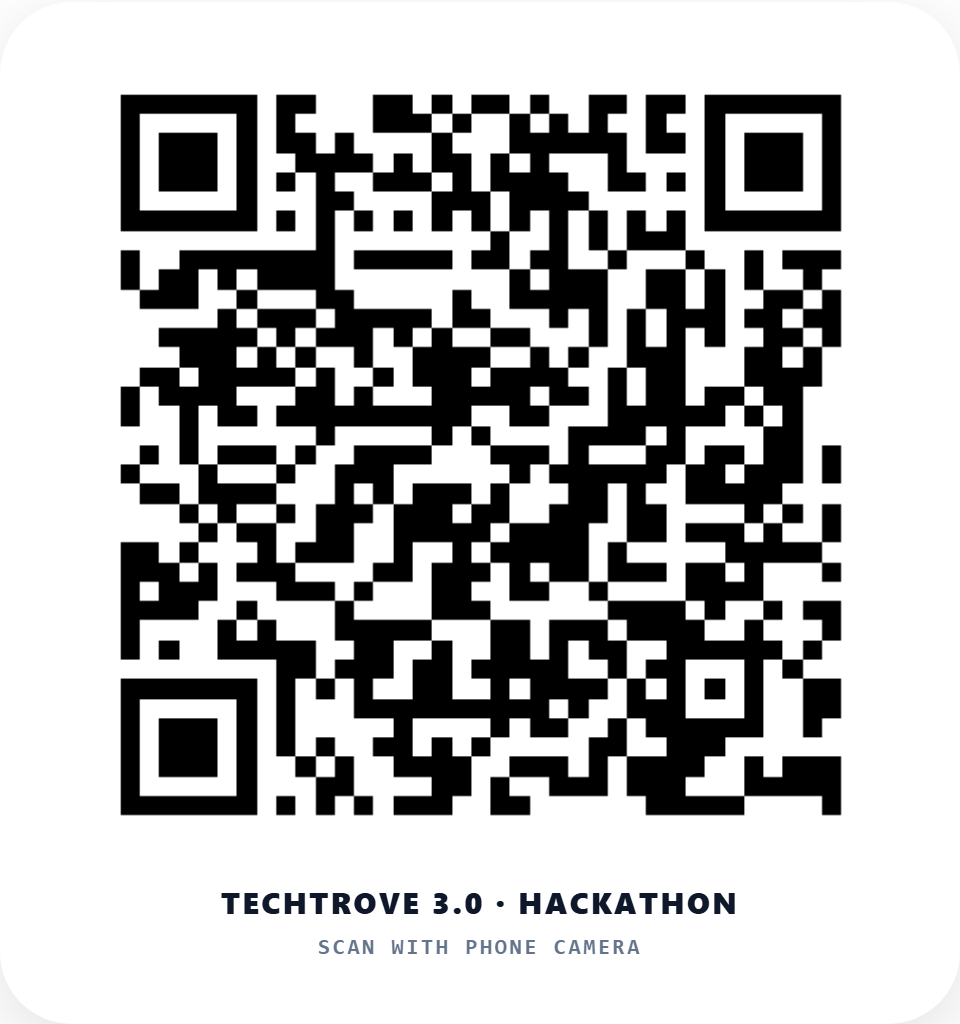
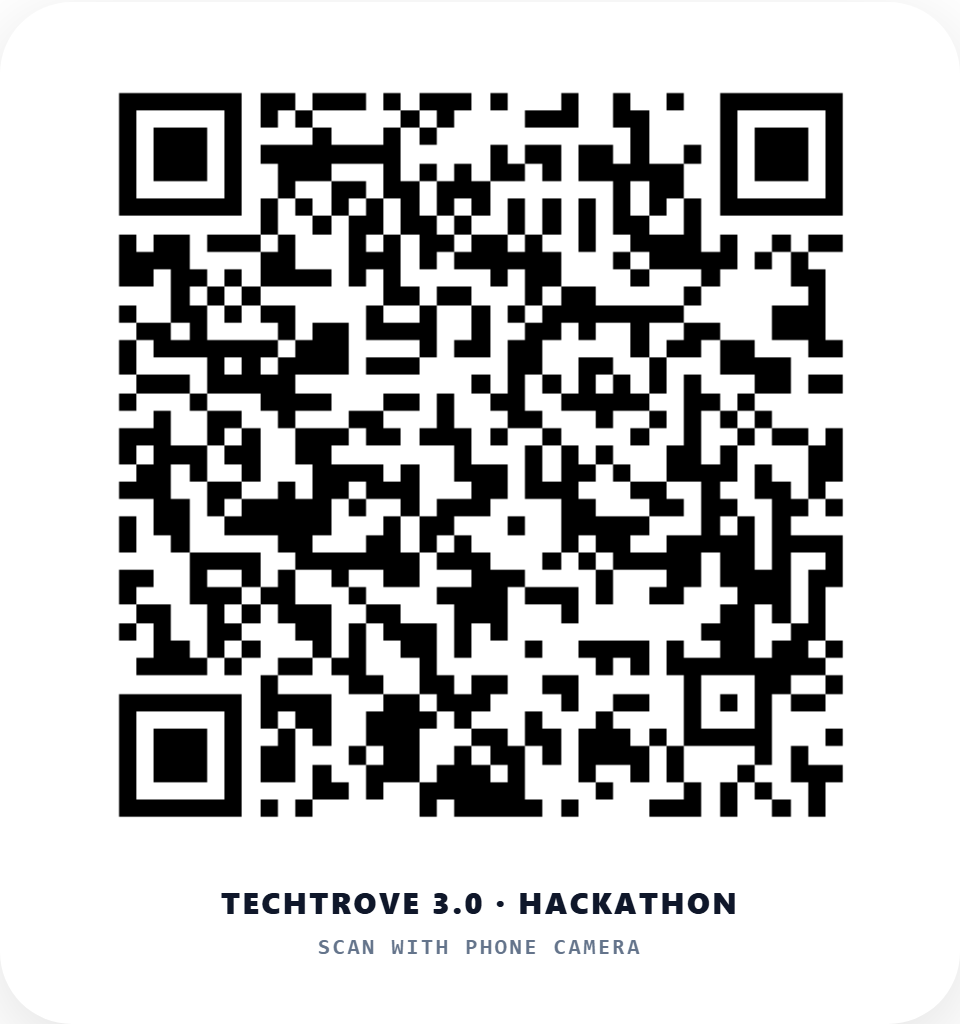
fix: update QR codes to https://techtrove3-simats.vercel.app, use 32-hex tokens, and remove duplicate checkin folder

diff --git a/src/pages/admin/AdminCheckinPage.tsx b/src/pages/admin/AdminCheckinPage.tsx
@@ -60,29 +60,29 @@ interface EventQrItem {
 }
 
 const STATIC_QR_MAP: Record<string, string> = {
-  "sports-unified-master": "/checkin-qrs/sports-pass.png",
-  "hackathon": "/checkin-qrs/hackathon.png",
-  "debugging": "/checkin-qrs/debugging.png",
-  "paper-presentation": "/checkin-qrs/paper-presentation.png",
-  "tech-maze": "/checkin-qrs/tech-maze.png",
-  "quiz": "/checkin-qrs/quiz.png",
-  "dance": "/checkin-qrs/dance.png",
-  "singing": "/checkin-qrs/singing.png",
-  "gaming": "/checkin-qrs/gaming.png",
-  "ramp-walk": "/checkin-qrs/ramp-walk.png",
-  "treasure-hunt": "/checkin-qrs/treasure-hunt.png",
-  "connexion": "/checkin-qrs/connexion.png",
-  "adaptune": "/checkin-qrs/adaptune.png",
-  "tunetopia": "/checkin-qrs/tunetopia.png",
-  "logo-making": "/checkin-qrs/logo-making.png",
-  "cricket": "/checkin-qrs/cricket.png",
-  "football": "/checkin-qrs/football.png",
-  "volleyball": "/checkin-qrs/volleyball.png",
-  "kabaddi": "/checkin-qrs/kabaddi.png",
-  "sport-khokho-girls": "/checkin-qrs/kho-kho.png",
-  "sport-throwball-girls": "/checkin-qrs/throwball.png",
-  "sport-chess-girls": "/checkin-qrs/chess.png",
-  "sport-carrom-girls": "/checkin-qrs/carrom.png",
+  "sports-unified-master": "/checkin%20qr's/sports-pass.png",
+  "hackathon": "/checkin%20qr's/hackathon.png",
+  "debugging": "/checkin%20qr's/debugging.png",
+  "paper-presentation": "/checkin%20qr's/paper-presentation.png",
+  "tech-maze": "/checkin%20qr's/tech-maze.png",
+  "quiz": "/checkin%20qr's/quiz.png",
+  "dance": "/checkin%20qr's/dance.png",
+  "singing": "/checkin%20qr's/singing.png",
+  "gaming": "/checkin%20qr's/gaming.png",
+  "ramp-walk": "/checkin%20qr's/ramp-walk.png",
+  "treasure-hunt": "/checkin%20qr's/treasure-hunt.png",
+  "connexion": "/checkin%20qr's/connexion.png",
+  "adaptune": "/checkin%20qr's/adaptune.png",
+  "tunetopia": "/checkin%20qr's/tunetopia.png",
+  "logo-making": "/checkin%20qr's/logo-making.png",
+  "cricket": "/checkin%20qr's/cricket.png",
+  "football": "/checkin%20qr's/football.png",
+  "volleyball": "/checkin%20qr's/volleyball.png",
+  "kabaddi": "/checkin%20qr's/kabaddi.png",
+  "sport-khokho-girls": "/checkin%20qr's/kho-kho.png",
+  "sport-throwball-girls": "/checkin%20qr's/throwball.png",
+  "sport-chess-girls": "/checkin%20qr's/chess.png",
+  "sport-carrom-girls": "/checkin%20qr's/carrom.png",
 };
 
 export function AdminCheckinPage({ viewOnly = false }: { viewOnly?: boolean } = {}) {
